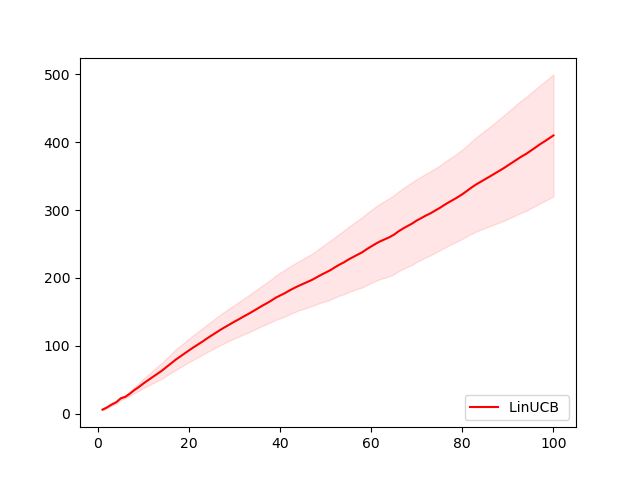
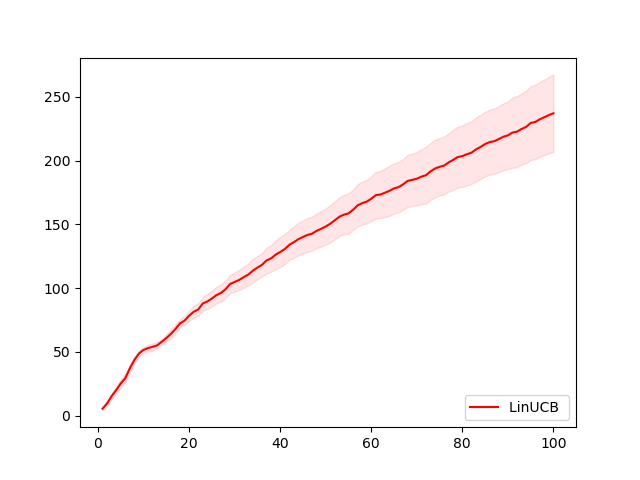
small stuff

diff --git a/utilities_linear.py b/utilities_linear.py
@@ -11,13 +11,22 @@ class ContextualBandit(object):
     def generate_reward(self,i):
         raise NotImplementedError
 
+EPS = .000000001
+
+
+def helper(x):
+    if x < 0:
+        return 1
+    else:
+        return x
 
 
 
 class LinearBandit(ContextualBandit):
-    def __init__(self, theta, mu, err_var, A_0):
+    def __init__(self, theta, mu, tau, err_var, A_0):
         self.theta = theta
         self.mu = mu
+        self.tau = tau
 
         self.err_var = err_var
         self.A_0 = A_0
@@ -28,8 +37,15 @@ class LinearBandit(ContextualBandit):
 
         self.probas =  [np.dot(self.A_0[:,i], self.theta) for i in range(self.K)]
         self.costs = [np.dot(self.A_0[:,i], self.theta) for i in range(self.K)]
+        self.opt_scalings = [helper(min(1, self.tau/(self.costs[k]+EPS))) for k in range(self.K)]
 
-        self.best_proba = max(self.probas)
+        self.scaled_probas = [self.probas[k]*self.opt_scalings[k] for k in range(self.K)]
+        self.scaled_costs = [self.costs[k]*self.opt_scalings[k] for k in range(self.K)]
+        self.best_action = np.argmax(self.scaled_probas)
+        self.best_proba = self.scaled_probas[self.best_action]
+
+        self.best_cost = self.scaled_costs[self.best_action]
+        
 
     def generate_context(self):
         ### If we change this to have a changing context, uncomment the following lines:
@@ -38,13 +54,14 @@ class LinearBandit(ContextualBandit):
         # self.best_proba = max( self.probas )
         return self.A_0
 
-    def generate_reward(self, i, scaling = 1):
-        rwd = scaling*self.probas[i] + np.random.normal(0, self.err_var, 1)
+
+    def generate_reward(self, i, scaling = 1, real = False):
+        rwd = scaling*self.probas[i] + (1-real)*np.random.normal(0, self.err_var, 1)
 
         return rwd
 
-    def generate_cost(self, i, scaling = 1):
-        cost =  scaling*self.costs[i] + np.random.normal(0, self.err_var, 1)
+    def generate_cost(self, i, scaling = 1, real = False):
+        cost =  scaling*self.costs[i] + (1-real)*np.random.normal(0, self.err_var, 1)
         return cost
 
 
@@ -67,9 +84,9 @@ class Solver(object):
         self.regret = 0.  # Cumulative regret.
         self.regrets = []  # History of cumulative regret.
 
-    def update_regret(self, i):
+    def update_regret(self, i, scaling):
         # i (int): index of the selected machine.
-        instant_regret = self.bandit.best_proba - self.bandit.probas[i]
+        instant_regret = self.bandit.best_proba - scaling*self.bandit.probas[i]
         self.regret += instant_regret
         self.regrets.append(self.regret)
         return instant_regret
@@ -86,14 +103,14 @@ class Solver(object):
 
 
 class LinUCB(Solver):
-    def __init__(self, bandit, lam, nm_ini, tau = 1, cost_upper_bound = 10):
+    def __init__(self, bandit, lam, nm_ini, tau = 1):
         """
 
         init_proba (float): default to be 0.0: pesimistic initialization.
         """
         super(LinUCB, self).__init__(bandit)
         ##### Check the bandit instance is a LinearBandit
-        self.cost_upper_bound = cost_upper_bound
+        self.cost_upper_bound = 2*np.max(bandit.costs)
         self.d, self.K = bandit.context_shape
         self.tau = tau
         self.pulls = [0]*self.K
@@ -116,7 +133,7 @@ class LinUCB(Solver):
     def scale_context_to_safety(self, UCB_cost):
         scalings = np.zeros(self.K)
         for k in range(self.K):
-            scalings[k] = min(1, self.tau/UCB_cost[k])
+            scalings[k] = helper(min(1, self.tau/(UCB_cost[k]+EPS)))
         return scalings
 
     def get_arm(self, context=None):
@@ -173,7 +190,7 @@ class LinUCB(Solver):
 
     def update_X_and_V(self, context, i, scaling):
         self.X.append(scaling*context[:, i])
-        print(scaling)
+        #print(scaling)
         self.X_numpy = np.array( self.X )
         self.V += np.outer(scaling*context[:, i], scaling*context[:,i])
 
@@ -198,7 +215,9 @@ class LinUCB(Solver):
         
         self.update_X_and_V(context, i, scaling)
         r = self.bandit.generate_reward(i, scaling)
+        r_real = self.bandit.generate_reward(i, scaling, real = True)
         c = self.bandit.generate_cost(i, scaling)
+        c_real = self.bandit.generate_cost(i, scaling, real = True)
         self.Y.append(r)
         self.C.append(c)
         self.Y_numpy = np.array(self.Y)
@@ -207,7 +226,7 @@ class LinUCB(Solver):
         #self.estimates[i] = (self.counts[i]*self.estimates[i] + r)/(self.counts[i] + 1.)
         self.counts[i] += 1
 
-        return context,i, r, c
+        return context,i, scaling, r_real, c_real
 
 
 

diff --git a/linear_constrained_bandits.py b/linear_constrained_bandits.py
@@ -12,41 +12,63 @@ from utilities_linear import LinearBandit, LinUCB
 # ray.init()
 
 # @ray.remote
-def run_linucb_sweep_experiment(T, theta, mu, err_var, A_0, lam, nm_ini):
-	bandit = LinearBandit( theta, mu, err_var, A_0 )
+def run_linucb_sweep_experiment(T, theta, mu, tau, err_var, A_0, lam, nm_ini):
+	bandit = LinearBandit( theta, mu, tau, err_var, A_0 )
 
-	solv = LinUCB(bandit, lam, nm_ini)
+	solv = LinUCB(bandit, lam, nm_ini, tau)
 
+	opt_reward = bandit.best_proba
+	opt_cost = bandit.best_cost
+	costs   = []
+	rewards = []
 
 	for i in range(T):
-		_, i, r, c = solv.run_one_step()
-		solv.update_regret(i)
+		_, i, scaling, r, c = solv.run_one_step()
+		solv.update_regret(i, scaling)
+		costs.append(c)
+		rewards.append(r)
 
-	return solv.regrets
+	return solv.regrets, costs, rewards, opt_reward, opt_cost 
+
+
+def strided_method(ar):
+    a = np.concatenate(( ar, ar[:-1] ))
+    L = len(ar)
+    n = a.strides[0]
+    return np.lib.stride_tricks.as_strided(a[L-1:], (L,L), (-n,n))
+
 
 
 num_repetitions = 10
-T = 100
+T = 1000
 d = 10
-theta = np.arange(10)
-mu = np.arange(10)
-err_var = 1
-A_0 = np.eye(10)
+theta = np.arange(d)
+theta = theta/np.max(theta)
+mu = np.flip(theta)
+err_var = .1
+A_0 = strided_method(np.arange(d))#np.eye(10)
+
 lam = .1
-nm_ini = 5
+nm_ini = 0
+
+tau = .5
+
 
 
 
 #linucb_regrets = [run_linucb_sweep_experiment.remote(T, theta, mu, err_var, A_0, lam, nm_ini) for _ in range(num_repetitions) ]
 #linucb_regrets = ray.get(linucb_regrets)
-linucb_regrets = [run_linucb_sweep_experiment(T, theta, mu, err_var, A_0, lam, nm_ini) for _ in range(num_repetitions) ]
+linucb_regrets = [run_linucb_sweep_experiment(T, theta, mu, tau, err_var, A_0, lam, nm_ini) for _ in range(num_repetitions) ]
+
+opt_reward = linucb_regrets[0][3]
+opt_cost = linucb_regrets[0][4]
 
 
 
-
+### REGRET
 reg_summary = np.zeros((num_repetitions, T))
 for j in range(num_repetitions):
-		reg_summary[j, :] = linucb_regrets[j]
+		reg_summary[j, :] = linucb_regrets[j][0]
 
 
 #print([np.sum(reg) for reg in ray.get(cor_regrets) ])
@@ -54,16 +76,74 @@ mean_regret = np.mean(reg_summary, axis = 0)
 std_regret = np.std(reg_summary, axis = 0)
 
 
+
+
+### COST
+cost_summary = np.zeros((num_repetitions, T))
+for j in range(num_repetitions):
+		cost_summary[j, :] = linucb_regrets[j][1]
+
+#print([np.sum(reg) for reg in ray.get(cor_regrets) ])
+mean_cost = np.mean(cost_summary, axis = 0)
+std_cost = np.std(cost_summary, axis = 0)
+
+
+### REWARD
+reward_summary = np.zeros((num_repetitions, T))
+for j in range(num_repetitions):
+		reward_summary[j, :] = linucb_regrets[j][2]
+
+mean_reward = np.mean(reward_summary, axis = 0)
+std_reward = np.std(reward_summary, axis = 0)
+
+
+
+
+
+font = {#'family' : 'normal',
+        #'weight' : 'bold',
+        'size'   : 16}
+
+
 #IPython.embed()
 timesteps = np.arange(T) + 1
 #IPython.embed()
+plt.figure(figsize=(5,5))
 
-
+plt.title("Regret")
 plt.plot(timesteps, mean_regret, label = "LinUCB ", color = "red")
 plt.fill_between(timesteps, mean_regret - .5*std_regret, mean_regret + .5*std_regret, color = "red", alpha = .1 )
 
 #IPython.embed()
 #plt.figure(figsize=(40,20))
 plt.legend(loc="lower right")
-plt.savefig("./LinUCB_Contextual.png")
+plt.savefig("./Linear_Regret_{}.png".format(tau))
 # ####################
+
+
+
+plt.figure(figsize=(5,5))
+
+plt.title("Cost")
+plt.plot(timesteps, [tau]*T, label = "Threshold", color = "black")
+plt.plot(timesteps, [opt_cost]*T, label = "Opt Cost", color = "blue")
+plt.plot(timesteps, mean_cost, label = "LinUCB ", color = "red")
+plt.fill_between(timesteps, mean_cost - .5*std_cost, mean_cost + .5*std_cost, color = "red", alpha = .1 )
+
+#IPython.embed()
+#plt.figure(figsize=(40,20))
+plt.legend(loc="lower right")
+plt.savefig("./Linear_Cost_{}.png".format(tau))
+# ####################
+plt.figure(figsize=(5,5))
+
+plt.title("Reward")
+plt.plot(timesteps, [opt_reward]*T, label = "Opt Reward", color = "blue")
+plt.plot(timesteps, mean_reward, label = "LinUCB ", color = "red")
+plt.fill_between(timesteps, mean_reward - .5*std_reward, mean_reward + .5*std_reward, color = "red", alpha = .1 )
+plt.legend(loc="lower right")
+plt.savefig("./Linear_Reward_{}.png".format(tau))
+# ####################
+
+
+
